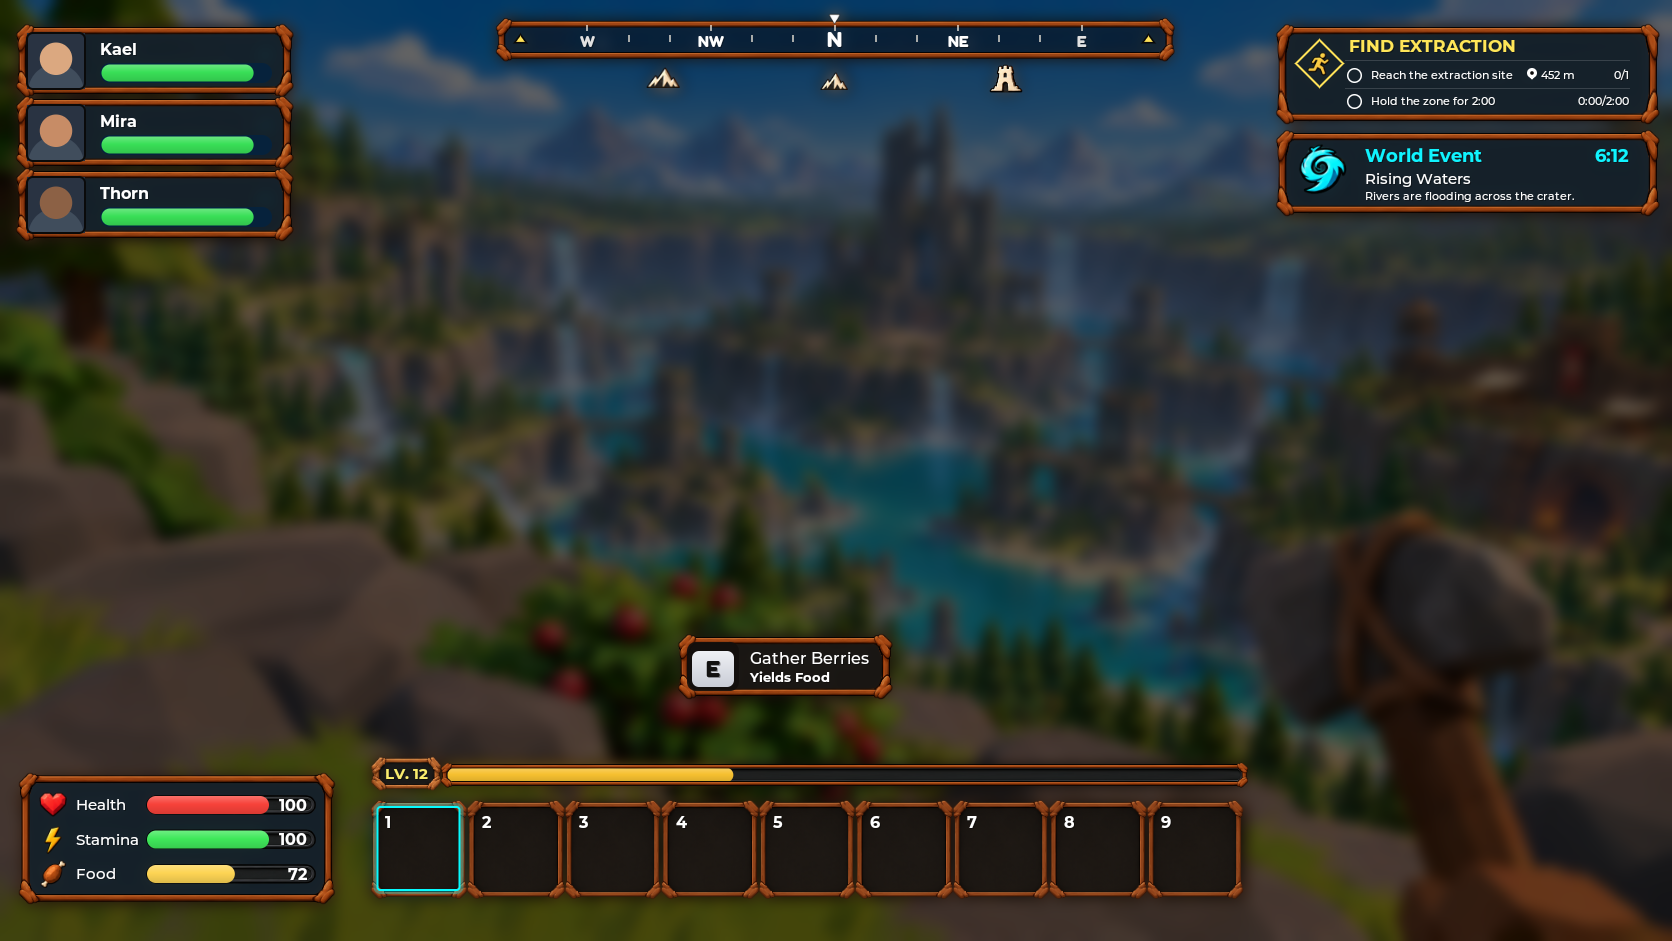
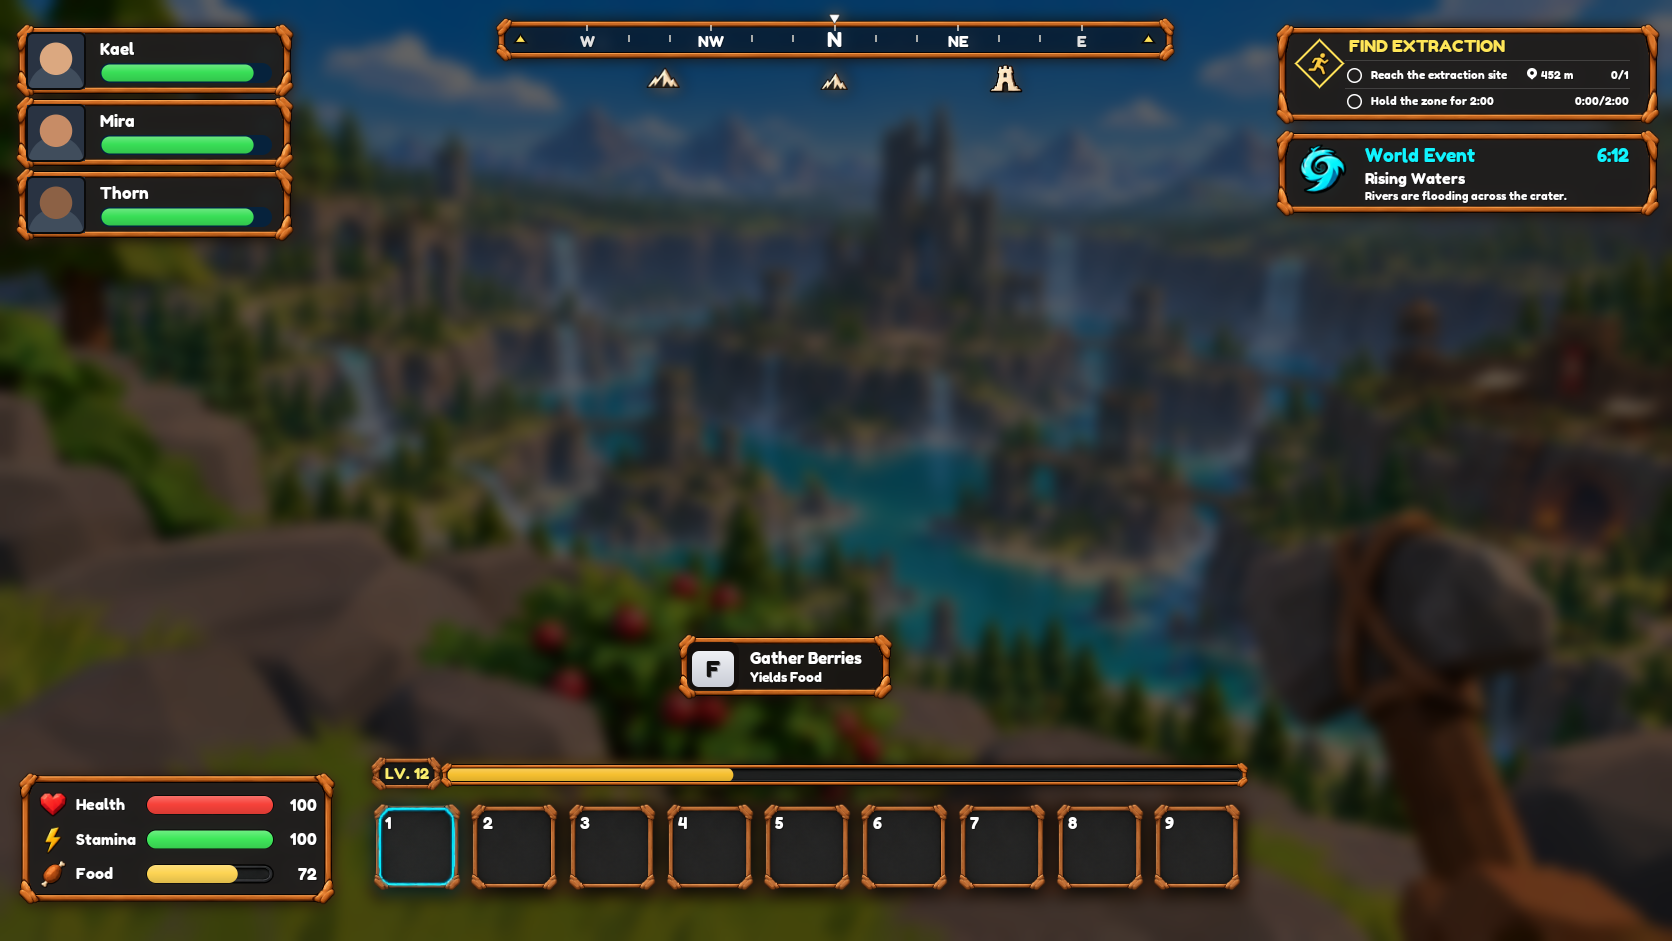
fix(hud): full bars, working hotbar keys, master-sized slots, true colours
Owner feedback on the live HUD:
- Bars fill their whole track at max; the number sits beside the bar.
- Keys 1-9 select HUD hotbar slots again. The inventory's key handler
  yielded on a server call, which Roblox treats as sinking the key; it
  now spawns the call, and the HUD binds one priority step above it.
- Slots are 88 px squares with gaps like the reference, and the selected
  slot uses the sheet's glowing cyan slot frame.
- All HUD text uses Fredoka One.
- Colours match the reference: the bar gradient no longer multiplies the
  fill colour by itself, the brown rope tint is gone, and panels are
  charcoal.
- Food drains over 60 minutes instead of 5 (GDD §49, revision 1.15).

diff --git a/art/ui/preview_hud.py b/art/ui/preview_hud.py
@@ -426,8 +426,7 @@ def place(entry, size=None):
 def draw_frame(name, x, y, w, h, scale_override=None, outset=None):
     # Widgets.Frame: the sprite is drawn larger so its rails land on the rect.
     l, t, r, b = outset or layout.get("frameOutset", [0, 0, 0, 0])
-    draw_sprite(name, x - l, y - t, w + l + r, h + t + b, scale_override=scale_override,
-                tint=layout.get("frameTint"))
+    draw_sprite(name, x - l, y - t, w + l + r, h + t + b, scale_override=scale_override)
 
 
 def panel(cfg, x, y, w, h):
@@ -595,12 +594,10 @@ def draw_vitals(preview):
         text(cfg["value"], value, x + cfg["value"]["right"] - vw, y + top, vw, cfg["rowHeight"], align="right")
 
 
-def draw_selection(cfg, sx, sy):
-    rx, ry, rw, rh = cfg["rect"]
-    color = hex_color(cfg["color"])[:3]
-    glow = cfg["glow"]
-    stroke_rrect(sx + rx - glow / 2, sy + ry - glow / 2, rw + glow, rh + glow, cfg["radius"] + glow / 2, glow, color, 0.3)
-    stroke_rrect(sx + rx, sy + ry, rw, rh, cfg["radius"], cfg["thickness"], color, 1)
+def draw_selection(cfg, sx, sy, sw, sh):
+    # Widgets.SelectionRing: the glowing slot frame over the slot, untinted.
+    l, t, r, b = cfg.get("frameOutset") or layout.get("frameOutset", [0, 0, 0, 0])
+    draw_sprite(cfg["sprite"], sx - l, sy - t, sw + l + r, sh + t + b, scale_override=cfg.get("sliceScale"))
 
 
 def draw_bottom(preview):
@@ -624,7 +621,7 @@ def draw_bottom(preview):
         sy = y + hot["y"]
         draw_frame(hot["frame"], sx, sy, sw, sh, hot.get("sliceScale"), hot.get("frameOutset"))
         if index + 1 == preview["selectedSlot"]:
-            draw_selection(cfg["selected"], sx, sy)
+            draw_selection(cfg["selected"], sx, sy, sw, sh)
         nx, ny, nw, nh = number["rect"]
         text(number, str(index + 1), sx + nx, sy + ny, nw, nh)
 

diff --git a/GDD.md b/GDD.md
@@ -1,8 +1,8 @@
 # Flintborn — Game Design Document
 
 > **Status:** Release-candidate specification — implemented through v0.18 (see §44)  
-> **Design revision:** 1.14  
-> **Last updated:** 2026-10-23  
+> **Design revision:** 1.15  
+> **Last updated:** 2026-10-24  
 > **Project:** Roblox / RBLX-Flintborn  
 > **Genre:** Primitive-fantasy survival sandbox / PvPvE extraction  
 > **Primary references:** Rust-style building and raiding, Booga Booga-style primitive progression, tactical extraction risk/reward  
@@ -69,7 +69,7 @@ This GDD is the source of truth for gameplay intent. Engineering contracts, tuni
 
 ### 1.2 Design guardrails — Proposed
 
-- Survival meters at launch are **health, stamina and food only**. **Base maximum HP: 100** (can increase through approved upgrades/gear). **Full sprint duration: 3 seconds**, then **5 seconds for full stamina recovery**. **Full food meter depletes to empty in 5 minutes** (baseline), and food **below 25% slows movement by 10%**. No thirst, temperature or weather-exposure survival meters.
+- Survival meters at launch are **health, stamina and food only**. **Base maximum HP: 100** (can increase through approved upgrades/gear). **Full sprint duration: 3 seconds**, then **5 seconds for full stamina recovery**. **Full food meter depletes to empty in 60 minutes** (baseline, §49), and food **below 25% slows movement by 10%**. No thirst, temperature or weather-exposure survival meters.
 - Avoid a “rich get richer” lockout where fresh spawns cannot make progress.
 - Prioritize readable telegraphs and counterplay over surprise one-hit kills.
 - **Confirmed monetization rule:** All paid benefits must have an **earnable in-game currency/resource path** given enough playtime, even if monetization goes beyond cosmetics/convenience. Avoid unbounded pay-to-win advantage, and preserve contested rare-item gameplay; exact perk caps and native Roblox purchase feasibility are Open.
@@ -176,7 +176,7 @@ This GDD is the source of truth for gameplay intent. Engineering contracts, tuni
 | Ammunition | **Every arrow recipe crafts 10 arrows**, with better material tiers optionally increasing damage; slow physical projectiles |
 | Armor | **Head**, **Chest** and combined **Legs/Boots** are the only three armor slots; gear lasts indefinitely, no shields |
 | Medical items | Basic **+10 HP**, advanced **+25 HP**, potion **+50 HP** immediately (capped at current max), followed by varying animation durations as the reuse cooldown |
-| Food | Food meter drains from full to zero in **5 minutes**; below **25%** slows movement **10%**. Eating produces food-dependent healing over **10 seconds**, halved on hits, with small remainder cutoff |
+| Food | Food meter drains from full to zero in **60 minutes** (§49); below **25%** slows movement **10%**. Eating produces food-dependent healing over **10 seconds**, halved on hits, with small remainder cutoff |
 | Utility | Torches, storage supplies, farm tools, primitive traps and other nonmagical gear |
 | Building | Placeable shelters/doors/storage/totems/farms and functional stations; initial wood, stone and iron tiers |
 | Future (not launch) | Elemental spells, enchanted combat weapons, special defensive resistances and any charge/mana subsystem |
@@ -185,7 +185,7 @@ This GDD is the source of truth for gameplay intent. Engineering contracts, tuni
 
 - **Health:** **100 base maximum HP**, with gear/upgrades allowed to change the cap; exact bonus sources and caps remain Open. Effective damage is transformed through the equipped armor **effective-HP multiplier** (§21.5), not a simple flat subtraction from normal HP. Medical items heal immediately subject to the *current modified* maximum HP. Tribe downing at 0 HP uses a separate **20-HP downed pool**, protected by armor (§5.3).
 - **Stamina:** A full bar allows **3 seconds of continuous sprint**; **5 seconds to recover from empty to full**. **Only sprinting spends stamina**. Melee, crouching, gathering, bow shots, raiding and ordinary movement do not. **Recovery stops the moment a sprint starts and resumes 3 seconds after it ends (§47).** Sprint speed and stamina UI granularity remain Open.
-- **Food:** A full food meter falls from **100% to 0% over 300 seconds (5 minutes)** under the baseline drain. **When strictly below 25%**, apply **10% movement-speed reduction**; it remains while below threshold. Food items grant item-specific healing totals over **10 seconds**. Incoming damage halves *remaining unapplied* HoT healing; if the remainder **after halving is ≤10 HP**, clear it to zero. No food-caused extra HP above the current max has been approved. **Confirmed Q160:** reaching **0% food has no additional effect** beyond the below-25% slow, and **food heals stack** with each other and with instant medicine. Drain modifiers and refill quantities are Open.
+- **Food:** A full food meter falls from **100% to 0% over 3,600 seconds (60 minutes)** under the baseline drain (§49; was 5 minutes). **When strictly below 25%**, apply **10% movement-speed reduction**; it remains while below threshold. Food items grant item-specific healing totals over **10 seconds**. Incoming damage halves *remaining unapplied* HoT healing; if the remainder **after halving is ≤10 HP**, clear it to zero. No food-caused extra HP above the current max has been approved. **Confirmed Q160:** reaching **0% food has no additional effect** beyond the below-25% slow, and **food heals stack** with each other and with instant medicine. Drain modifiers and refill quantities are Open.
 - **Excluded at launch:** Thirst, temperature, magical energy/mana, shield meters, equipment durability and weather survival stats unless explicitly approved in a later revision.
 
 ### 4.4 Recipes and Permanent equipment
@@ -251,7 +251,7 @@ This GDD is the source of truth for gameplay intent. Engineering contracts, tuni
 
 - **Medical item or potion:** Server confirms valid consumable, **immediately heals** and deducts one item exactly once. Begin **after-heal animation cooldown**; cannot immediately chain another medical item before cooldown ends.
 - **Food:** Every food grants its item-specific healing total over **10 seconds**; each damaging hit halves the *remaining unapplied* healing, cancelling it if the post-hit remainder is **≤10 HP**. Previously healed HP is not taken away by this cancellation rule.
-- **Movement:** Sprint lasts **3 continuous seconds** from full stamina; empty-to-full regeneration takes **5 seconds**, and only sprint drains stamina. Food takes **5 minutes** to go from full to empty; below **25%**, walking/running movement speed is **10% lower**. Crouching, attacks, harvesting and building do not cost stamina.
+- **Movement:** Sprint lasts **3 continuous seconds** from full stamina; empty-to-full regeneration takes **5 seconds**, and only sprint drains stamina. Food takes **60 minutes** to go from full to empty (§49); below **25%**, walking/running movement speed is **10% lower**. Crouching, attacks, harvesting and building do not cost stamina.
 - **Downed (Q159):** Players may only **crawl very slowly**; no medicine, food or other healing, and any running food HoT is cleared on downing. Pending revive and death rules supersede all other inputs.
 
 ### 5.5 Combat integrity and spawn safety
@@ -845,7 +845,7 @@ A veteran equips an owned **Permanent sword** alongside ordinary armor, instant-
 - **Sprinting:** At full stamina a player can sprint **3 continuous seconds**. From empty to full, stamina **recovers in 5 seconds**. Only sprint spends stamina; **recovery waits 3 seconds after a sprint ends (§47)**; partial-sprint behavior, pace and speed remain Open.
 - **Crouching:** Low profile/stealth/movement choice; does not consume stamina. Sprinting and crouch interactions are implementation choices.
 - **Medicine:** Basic **+10 HP** with **0.5s animation**, advanced **+25 HP** with **1.0s animation**, potion **+50 HP** with **1.5s animation**. Healing applies **immediately**, then the animation is the **ONLY cooldown**; another medical use is prohibited until animation completes. The server blocks replayed/parallel remotes, including latency abuse. No additional hidden cooldown.
-- **Food:** Full meter decays in **5 minutes**; below **25%** gives **−10% speed**. **Accepted starter food examples (Q137):** Berries replenish **10% of hunger and heal 10 HP over 10 seconds**; Cooked Meat replenishes **35% hunger and heals 30 HP over 10 seconds**. Actual launch recipe/catalog still subject to naming. Each damaging hit halves pending food healing; if new remaining heal ≤10 HP, cancel it entirely.
+- **Food:** Full meter decays in **60 minutes** (§49); below **25%** gives **−10% speed**. **Accepted starter food examples (Q137):** Berries replenish **10% of hunger and heal 10 HP over 10 seconds**; Cooked Meat replenishes **35% hunger and heals 30 HP over 10 seconds**. Actual launch recipe/catalog still subject to naming. Each damaging hit halves pending food healing; if new remaining heal ≤10 HP, cancel it entirely.
 - **Armor:** Armor modifies **effective HP (EHP)** using a multiplier, not direct flat damage reduction: **EHP = current HP × armor factor** and damage applies to EHP; convert back to displayed actual HP (§21.5). Early armor multipliers are slightly different but visibly useful. Equipment remains indefinitely durable; magical/special resistance is future-only.
 - **No player magic/shields:** Skeletons, elementals and other mythical adversaries remain enemy content; magic attacks, magical barriers and dodge/stamina combos are out of launch scope.
 
@@ -1734,7 +1734,7 @@ These answers supersede earlier proposals where conflicting. Specific balancing 
 | --- | --- | --- | --- |
 | **61** | Health | **100 base max HP**; equipment and approved upgrades can raise max HP | Bonus source/stat caps and gear interactions |
 | **62** | Sprint | **3 seconds sprint on full bar; 5 seconds recovery from empty to full**; stamina used only for sprint | Regen delay, rates after partial sprint, actual sprint speed |
-| **63** | Food | Full food meter **100% → 0% in 5 minutes**; **below 25% food** gives **−10% movement speed** | Refills, exact drain exceptions, zero-food additional effects |
+| **63** | Food | Full food meter **100% → 0% in 60 minutes** (§49; was 5 minutes); **below 25% food** gives **−10% movement speed** | Refills, exact drain exceptions, zero-food additional effects |
 | **64** | Instant medicine | **Basic +10 HP**, **advanced +25 HP**, **potion +50 HP**; immediately applied, then varying animation cooldowns | **Q135:** 0.5/1.0/1.5 s; mobility during cooldown Open |
 | **65** | Food HoT | Food-dependent total healing **over 10 seconds**. On each damage event, remaining HoT cut by **50%**; if *post-cut remainder ≤10 HP*, clear it completely | Food catalog/totals, overlapping food HoTs, tick granularity |
 | **66** | Early melee | **Rock 5 raw damage per hit with high attack speed**; **wooden spear ~15** slower/longer range; **stone spear ~25** | Spear values tentative; cooldowns set by Q133; reach Open |
@@ -1800,7 +1800,7 @@ Let the current actual health be H, and let A be the valid positive effective-HP
 
 1. Full HP defaults to **100**, but valid account/gear upgrades raise maximum HP; medicine cannot exceed the current modified max HP.
 2. Full sprint runs **3 seconds**, stamina from empty fully returns in **5 seconds**; combat/crouching/gathering spend no stamina.
-3. At food exactly 25%, the **below-25%** speed penalty has not yet triggered; 24.99% triggers **10% movement slow**; full meter empties in **300 seconds**.
+3. At food exactly 25%, the **below-25%** speed penalty has not yet triggered; 24.99% triggers **10% movement slow**; full meter empties in **3,600 seconds** (§49).
 4. Basic medicine immediately heals **10**, advanced **25**, potion **50**, followed by tier-specific animation/reuse lock. Spammed remotes do not repeat healing.
 5. Food HoT completes after **10 seconds** absent hits, with food-dependent total. A hit halves remaining heal, and if post-hit remainder ≤10 HP, cancel rest, without retroactive health loss.
 6. Rock deals **5 raw damage**, tentative wooden spear **~15** and stone spear **~25**; armor multiplies EHP rather than flat damage reduction. Actual HP/EHP conversion remains consistent for attack, heal and downed finishes.
@@ -2183,6 +2183,7 @@ NPC shop stock/prices, opt-in auto-sell and safe settlement; Gem trade level/lim
 | **1.6** | 2026-10-23 | Owner confirmed Q162: Roblox Premium's +25% XP and an active consumable XP booster combine **additively**. Updated §10.4, §36.7, §39.5–39.7, §40 and the working principle. |
 | **1.7** | 2026-10-23 | Owner confirmed Q163: the game uses two places, a lobby (start place) and a play world, in one universe (§34.1). |
 | **1.8** | 2026-10-23 | Implementation of phases v0.01–v0.18 complete and deployed from `main`. Added §44 recording every unconfirmed number as a deliberate launch starting value, and the release checklist for v1.00. No rule changed. |
+| **1.15** | 2026-10-24 | Owner changed the food drain: a full meter now empties in **60 minutes** instead of 5. HUD feedback fixed (bars fill at max, hotbar number keys select slots, master-sized slots with the glowing selected frame, rounded Fredoka One text, true reference colours). Added §49 and updated §1, §4, §5, §21 and §37 (Q63). |
 | **1.14** | 2026-10-23 | Owner answered Q165–169: the Shattered Crater is designed around **~2,400 studs across**; lobby servers hold **20 players**; a hub menu opens any lobby station from anywhere; trades start anywhere in the lobby; weapons work in the lobby but deal no damage and every lobby player is invulnerable. Started map design documents in `docs/maps` with a draft lobby hub. Added §48, updated §3.3 and §40.3. (Drafted in parallel with 1.11–1.13 as 1.11/§46; renumbered on merge.) |
 | **1.13** | 2026-10-23 | Owner decided stamina recovery stops when a sprint starts and resumes 3 seconds after it ends, and reported walking after releasing sprint still draining stamina (fixed: pace is now judged over a full second against the allowed speed). Added §47. |
 | **1.12** | 2026-10-23 | Owner changed Interact to **F** and removed the lobby panel keys (vault, Forge, market, trade): those panels open from the lobby navigation buttons. Updated §46. |
@@ -2272,6 +2273,20 @@ Map layouts are designed in [`docs/maps`](docs/maps/README.md); the lobby draft 
 **QA:** a 21st player joining a full lobby server is placed in another lobby server; every lobby station opens from the hub menu at any position; a trade request reaches any player in the same lobby server; a weapon swung or an arrow fired in the lobby damages nothing.
 
 **Still Open:** the lobby hub's setting and look (Q170, pending the owner's reference image) and the Deploy gate's form (Q171). See `docs/maps/lobby-hub.md`.
+
+## 49. Owner change: food drain and HUD feedback (2026-10-24)
+
+**Food:** a full food meter now drains from **100% to 0% over 60 minutes** (3,600 s), replacing the 5-minute baseline. The below-25% slow (−10% movement speed) and every other food rule are unchanged, so a player now reaches the slow after 45 minutes without eating.
+
+**HUD feedback** (in-world HUD, §11 and §25.4):
+
+- At maximum, the Health, Stamina and Food bars fill their whole track; the number sits beside the bar.
+- Hotbar keys (1–9 by default, §46) select slots again. The inventory's key handler waited on the server before passing the key on, which Roblox treats as consuming it.
+- Hotbar slots match the owner's reference: about 88 px squares with clear gaps. The selected slot uses the sheet's glowing cyan slot frame.
+- All HUD text uses the rounded **Fredoka One** font.
+- Bar fills, rope frames and panels show the reference colours. The bar shine had darkened and oversaturated each fill, a brown tint darkened the rope, and panels were bluish rather than charcoal.
+
+**QA:** with full food, wait 30 minutes and the meter reads 50; at full health, stamina and food each bar reaches the end of its track; press 1, 2 and 3 in a run and the cyan frame moves to that slot; the rest of the HUD matches the owner's reference screenshot.
 
 ---
 

diff --git a/docs/MANUAL_VALIDATION.md b/docs/MANUAL_VALIDATION.md
@@ -49,7 +49,7 @@ Studio and live checks (until crafting arrives in v0.05, a Studio run starts wit
 
 - [ ] Hold Shift (or L3 / the touch Sprint button): sprint lasts about 3 s, the bar holds for 3 s after the sprint ends, then refills in about 5 s (GDD §47); melee, crouching and standing still never drain it.
 - [ ] Toggle crouch with C (or R3 / touch): slower movement, no stamina use.
-- [ ] Food drains to 0 in 5 minutes; below 25% the HUD shows "! slowed" and movement is 10% slower; nothing else happens at 0%.
+- [ ] Food drains to 0 in 60 minutes (half after 30); below 25% the HUD shows "! slowed" and movement is 10% slower; nothing else happens at 0%.
 - [ ] Medicine heals instantly; spamming it during the animation heals once and consumes one item.
 - [ ] Eat while taking hits: pending food healing halves per hit and stops at 10 HP or less; health never regenerates on its own.
 - [ ] The HUD is readable on desktop, touch and gamepad.
